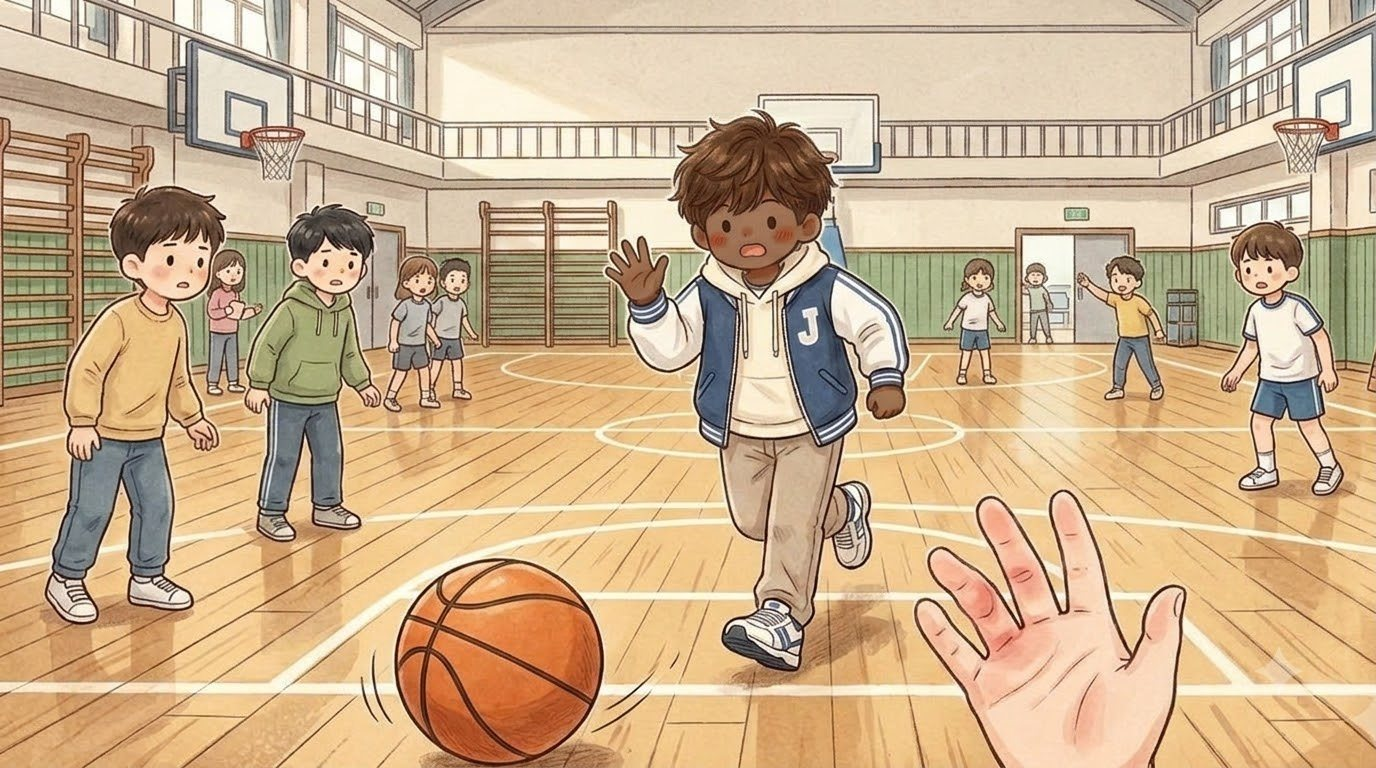
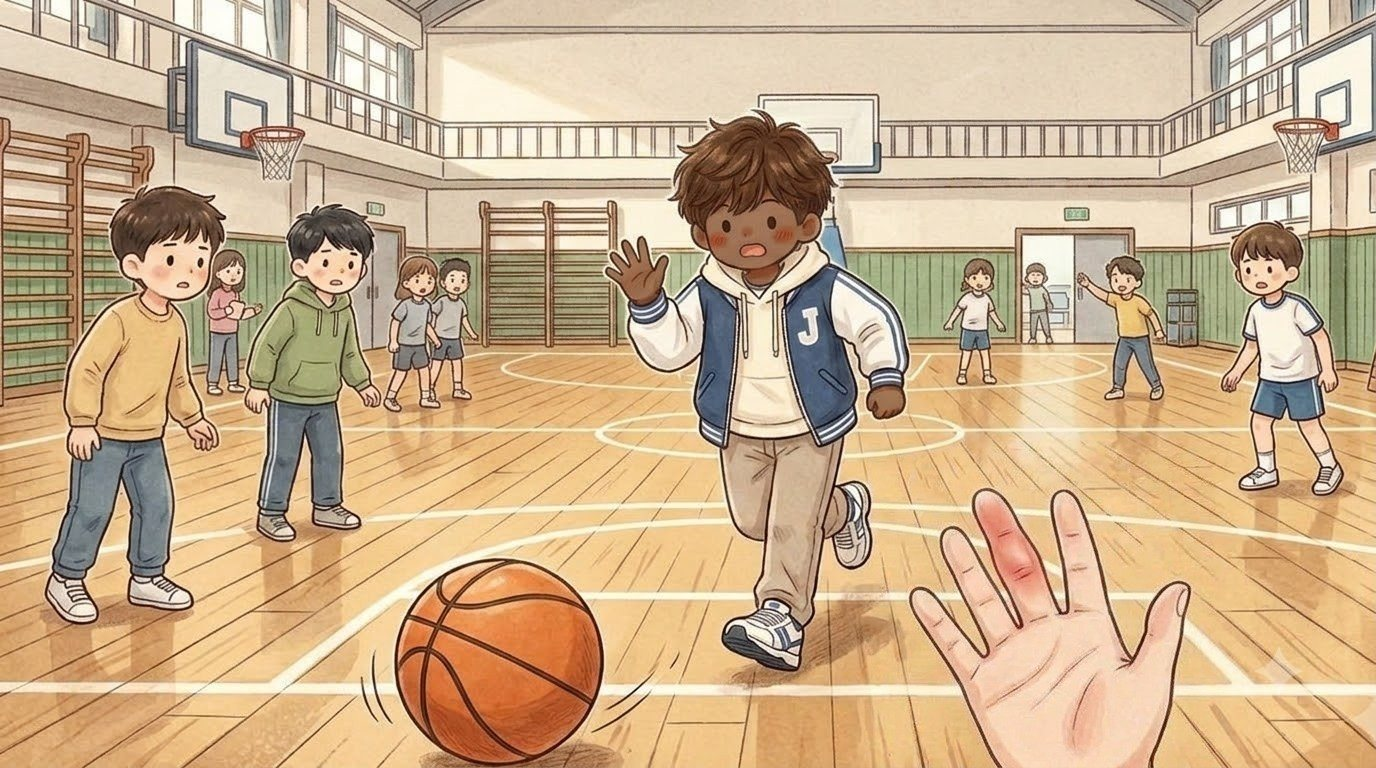
Jiho meeting 9 (boss 11/07): the hurt finger is the middle finger in all three pictures (jiho_09, 09b, 09c), the index finger back to normal skin - hands only, rest of each picture unchanged (BUILD 1107151412)

Changed region(s): [[0.6562, 0.625, 0.875, 0.9688], [0.8125, 0.9688, 0.8438, 1.0], [0.7188, 0.9688, 0.75, 1.0]]

diff --git a/index.html b/index.html
@@ -119,14 +119,14 @@ body,button{word-break:keep-all;overflow-wrap:break-word}
 <div id="fader"></div>
 <script>
 // same address, newest version: if the page this phone has kept is older than the one online, fetch the new one and reopen
-const BUILD='1107151236';
+const BUILD='1107151412';
 try{fetch(location.pathname,{cache:'no-store'}).then(r=>r.text()).then(t=>{const m=t.match(/const BUILD='(\d+)'/);if(m&&m[1]!==BUILD&&sessionStorage.getItem('upd')!==m[1]){sessionStorage.setItem('upd',m[1]);fetch(location.pathname,{cache:'reload'}).then(()=>location.reload())}}).catch(()=>{})}catch(e){}
 </script>
-<script src="i18n.js?v=1107151236"></script>
-<script src="i18n_prologue_v2.js?v=1107151236"></script>
-<script src="day2/i18n_engine.js?v=1107151236"></script>
-<script src="day2/data.js?v=1107151236"></script>
-<script src="day3/data.js?v=1107151236"></script>
+<script src="i18n.js?v=1107151412"></script>
+<script src="i18n_prologue_v2.js?v=1107151412"></script>
+<script src="day2/i18n_engine.js?v=1107151412"></script>
+<script src="day2/data.js?v=1107151412"></script>
+<script src="day3/data.js?v=1107151412"></script>
 <script>
 // ---------- data ----------
 const MW=1672,MH=941,KID=180;
@@ -569,35 +569,35 @@ function pickHero(){const m=document.getElementById('modal'),c=document.getEleme
  c.innerHTML=`<h2>${tr('전학생 반장되기')}</h2><p>${tr('한국말이 아직 서툰 전학생,<br>반장 선거에 나가다.')}</p><p style="margin-top:14px">${tr('누구로 할까요?')}</p>${(()=>{const s=loadSave();return s&&s.day>=2&&s.mode===UI+'-'+LANG?`<p><button class="big" id="cont">${tr('{n}일차부터 이어 하기').replace('{n}',s.day)}</button></p>`:''})()}<div class="pick heroes"><button data-h="hero_f"><img src="faces/hero_f_smile.jpg" alt="여자 주인공">${heroName(1)}</button><button data-h="hero_m"><img src="faces/hero_m_smile.jpg" alt="남자 주인공">${heroName(0)}</button></div>`;
  m.classList.add('on');{const cb=document.getElementById('cont');if(cb)cb.onclick=()=>{const s=loadSave();HERO=s.hero;Object.assign(HEART,s.heart||{});(s.found||[]).forEach(k=>FOUND.add(k));HEART_D1={...HEART};chime();(typeof contGame==='function'?contGame(s):startDay(Math.min(s.day,Object.keys(window.D3||{}).length?3:2)))}}c.querySelectorAll('.pick button').forEach(b=>b.onclick=()=>{HERO=b.dataset.h;m.classList.remove('on');chime();bgm('day');load('home_am');say([['nar','','이사 온 다음 날 아침. 아직 풀지 못한 상자들이 쌓여 있다.'],['think','sad','(오늘부터 새 학교야. 여기 말도 아직 서툰데…….)'],['think','smile','({m}한테 인사하고 학교 가야지.)']],morning)})}
 </script>
-<script src="day2/engine.js?v=1107151236"></script>
-<script src="day2/ep_minho.js?v=1107151236"></script>
-<script src="day2/meet.js?v=1107151236"></script>
-<script src="day2/ep_sua.js?v=1107151236"></script>
-<script src="day2/ep_hangyeol.js?v=1107151236"></script>
-<script src="day2/ep_siwoo.js?v=1107151236"></script>
-<script src="day2/ep_haram.js?v=1107151236"></script>
-<script src="day2/ep_jiho.js?v=1107151236"></script>
-<script src="day2/ep_hyeeun.js?v=1107151236"></script>
-<script src="day2/ep_haneul.js?v=1107151236"></script>
-<script src="day2/ep_junho.js?v=1107151236"></script>
-<script src="day2/ep_yuna.js?v=1107151236"></script>
-<script src="day2/ep_yena.js?v=1107151236"></script>
-<script src="day2/ep_haeun.js?v=1107151236"></script>
-<script src="day2/ep_youngmin.js?v=1107151236"></script>
-<script src="day2/ep_seah.js?v=1107151236"></script>
-<script src="day2/ep_jihoon.js?v=1107151236"></script>
-<script src="words_ja_ru.js?v=1107151236"></script>
-<script src="day2/mybag.js?v=1107151236"></script>
-<script src="day2/wordpics.js?v=1107151236"></script>
-<script src="day2/spots.js?v=1107151236"></script>
-<script src="day2/textfit.js?v=1107151236"></script>
-<script src="day2/tester.js?v=1107151236"></script>
-<script src="day2/ux.js?v=1107151236"></script>
-<script src="day2/tapword.js?v=1107151236"></script>
-<script src="day2/review.js?v=1107151236"></script>
-<script src="day2/plane.js?v=1107151236"></script>
-<script src="day2/ep_ending.js?v=1107151236"></script>
-<script src="day2/ending.js?v=1107151236"></script>
+<script src="day2/engine.js?v=1107151412"></script>
+<script src="day2/ep_minho.js?v=1107151412"></script>
+<script src="day2/meet.js?v=1107151412"></script>
+<script src="day2/ep_sua.js?v=1107151412"></script>
+<script src="day2/ep_hangyeol.js?v=1107151412"></script>
+<script src="day2/ep_siwoo.js?v=1107151412"></script>
+<script src="day2/ep_haram.js?v=1107151412"></script>
+<script src="day2/ep_jiho.js?v=1107151412"></script>
+<script src="day2/ep_hyeeun.js?v=1107151412"></script>
+<script src="day2/ep_haneul.js?v=1107151412"></script>
+<script src="day2/ep_junho.js?v=1107151412"></script>
+<script src="day2/ep_yuna.js?v=1107151412"></script>
+<script src="day2/ep_yena.js?v=1107151412"></script>
+<script src="day2/ep_haeun.js?v=1107151412"></script>
+<script src="day2/ep_youngmin.js?v=1107151412"></script>
+<script src="day2/ep_seah.js?v=1107151412"></script>
+<script src="day2/ep_jihoon.js?v=1107151412"></script>
+<script src="words_ja_ru.js?v=1107151412"></script>
+<script src="day2/mybag.js?v=1107151412"></script>
+<script src="day2/wordpics.js?v=1107151412"></script>
+<script src="day2/spots.js?v=1107151412"></script>
+<script src="day2/textfit.js?v=1107151412"></script>
+<script src="day2/tester.js?v=1107151412"></script>
+<script src="day2/ux.js?v=1107151412"></script>
+<script src="day2/tapword.js?v=1107151412"></script>
+<script src="day2/review.js?v=1107151412"></script>
+<script src="day2/plane.js?v=1107151412"></script>
+<script src="day2/ep_ending.js?v=1107151412"></script>
+<script src="day2/ending.js?v=1107151412"></script>
 <script>
 // the goal shows big for a few seconds, then folds into a small pill (tap it to open it again)
 {const g=document.getElementById('goal');let t=null;const big=()=>{g.classList.remove('mini');clearTimeout(t);t=setTimeout(()=>g.classList.add('mini'),4000)};
